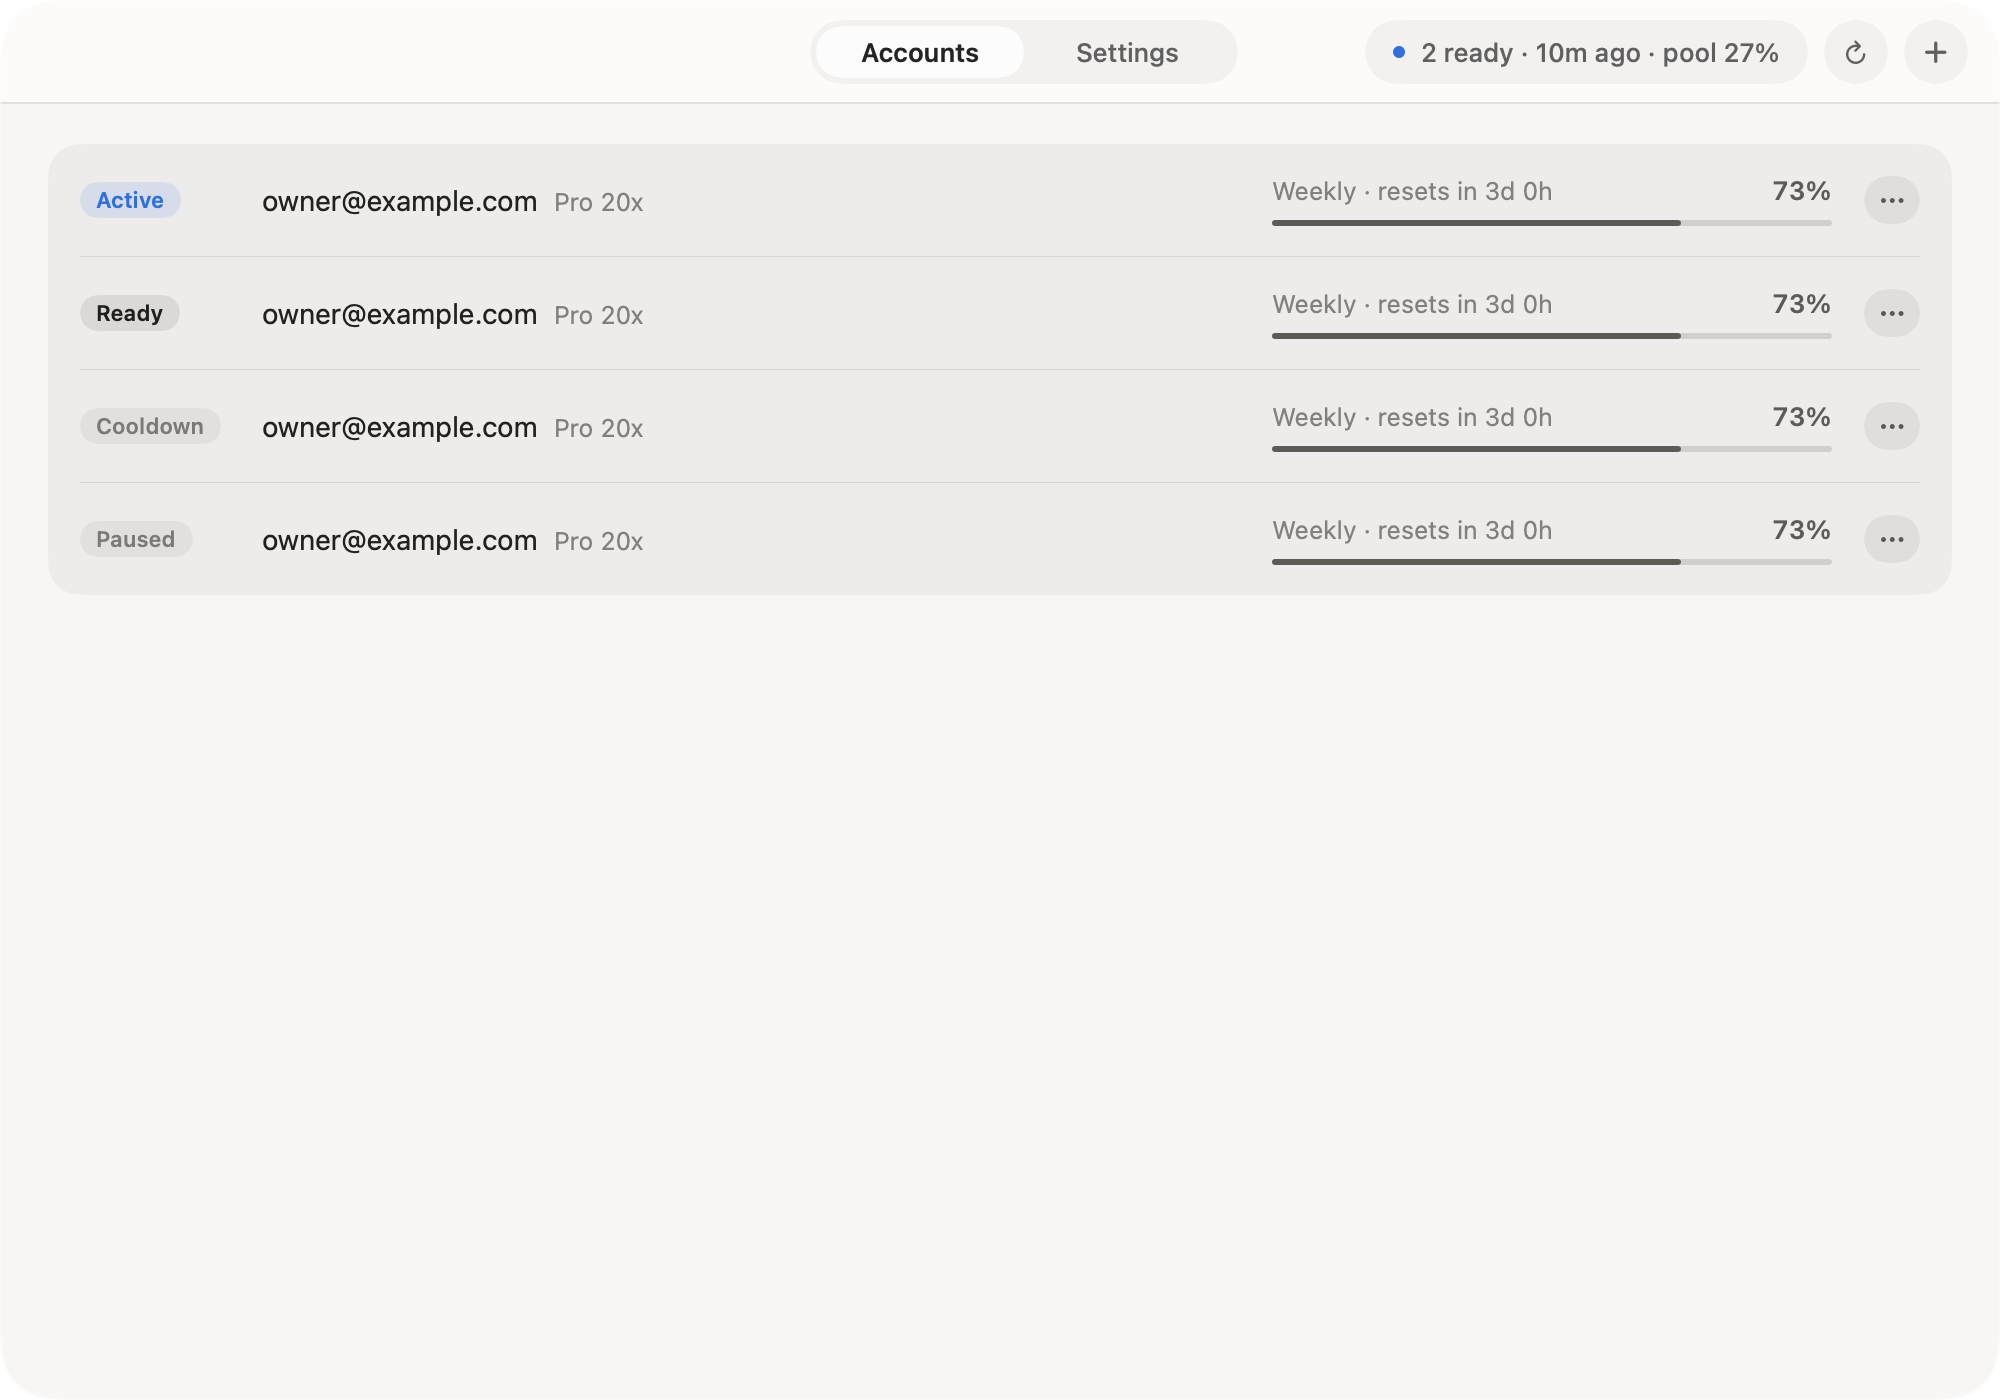
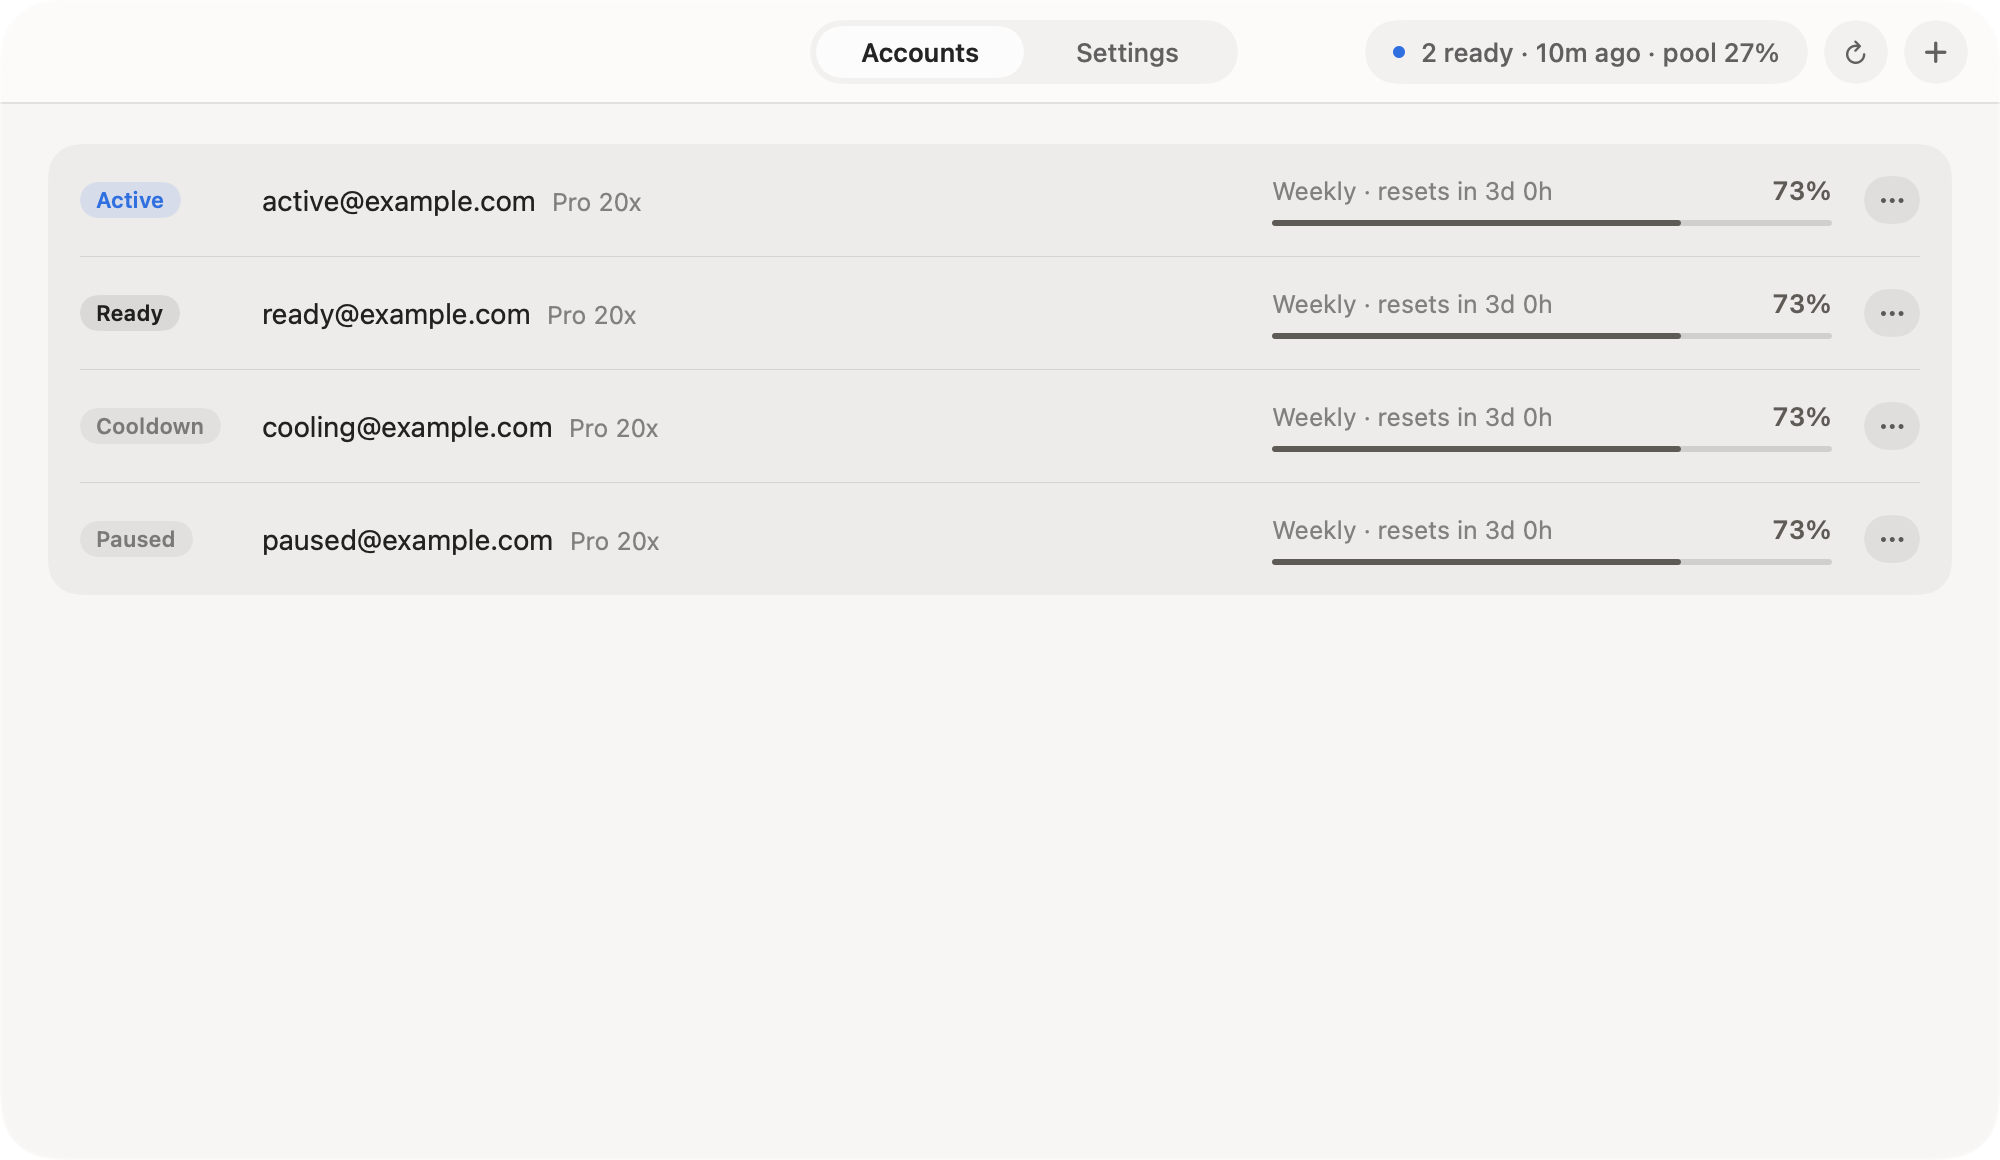
docs: align all READMEs with current failover and update behavior

diff --git a/README.md b/README.md
@@ -8,15 +8,16 @@
 
 **When one Codex account hits its limit, keep going with the next.**
 
-CodexMulti puts your Codex accounts in one macOS menu-bar app. See what each account has left,
+CodexMulti puts your Codex accounts in one macOS menu-bar app. Track each account’s usage and reset times,
 choose their order, and let automatic failover handle confirmed usage-limit errors.
 
 [Download](https://github.com/moonsunkim/codexmulti/releases/latest) · [Changelog](CHANGELOG.md) · [Security](SECURITY.md) · [Contributing](CONTRIBUTING.md)
 
+[![Latest release](https://img.shields.io/github/v/release/moonsunkim/codexmulti)](https://github.com/moonsunkim/codexmulti/releases/latest)
 [![CI](https://github.com/moonsunkim/codexmulti/actions/workflows/ci.yml/badge.svg)](https://github.com/moonsunkim/codexmulti/actions/workflows/ci.yml)
 
 
-- **See your whole pool.** Remaining usage, reset times and account availability are together in one window. The menu bar keeps the pool total close by; **Accounts…** opens the full list in one click.
+- **See your whole pool.** Account usage, reset times and failover states are together in one window. The menu bar keeps the pool summary close by; **Accounts…** opens the full list in one click.
 - **Set the order once.** Drag accounts into your preferred order. When an eligible request hits a confirmed usage limit, the proxy tries the next available account.
 - **Turn on one switch.** Failover setup includes the local proxy and its Node runtime. Added or reconnected accounts are picked up automatically while the app is open.
 - **Keep credentials local.** Each account has its own Codex directory and Keychain backup. There is no CodexMulti account to create or hosted service to connect to.
@@ -50,7 +51,7 @@ See [when account switching happens](#when-will-it-switch-accounts) for the exac
 
 ## Install
 
-You need **an Apple Silicon Mac running macOS 26 or later**, Codex CLI with ChatGPT sign-in,
+You need **an Apple Silicon Mac running macOS 26 or later**, **Codex CLI 0.146.0 or later** with ChatGPT sign-in,
 and at least two accounts for failover to be useful.
 
 ```sh
@@ -82,6 +83,8 @@ Move the verified `CodexMulti.app` into `/Applications` and open it.
 
 </details>
 
+For an existing installation, use **Settings → Software update → Check for updates** for normal upgrades. If **Set up safe updates** appears, close Codex clients and complete that one-time setup first. Checks and installation are started by you; see [in-app updates](#in-app-updates).
+
 ## Two steps to get going
 
 1. **Add your accounts.** Click **+**, give the account a name, and complete the official browser sign-in. Repeat for the accounts you want in the pool.
@@ -100,16 +103,20 @@ In an account's **…** menu, **Use in failover…** selects that account for ne
 **Pause in failover** excludes it from receiving new requests; **Resume in failover** includes it again.
 Requests already in flight continue on their current account.
 
+Account rows show **used** capacity for the displayed period: **100% means that limit is exhausted**. **Pool** shows the average weekly capacity remaining across included accounts with reported weekly usage. Paused and invalid accounts are excluded; cooling accounts still contribute to this average. It is not a combined token allowance or a count of accounts ready to accept a request.
+
+Usage is a saved snapshot. Refresh one account from its **…** menu, or use **Refresh All Accounts**. Scheduled refresh is **Off** by default; Settings offers **15 min, 30 min or 1 hour**. Refresh also updates the local proxy status. **Rename…** changes the name displayed in CodexMulti, not the account’s OpenAI email.
+
 <picture>
   <source media="(prefers-color-scheme: dark)" srcset="assets/screenshots/accounts-dark.png">
   <source media="(prefers-color-scheme: light)" srcset="assets/screenshots/accounts-light.png">
-  <img alt="CodexMulti account pool with remaining usage, reset times and active, ready, cooling and paused states" src="assets/screenshots/accounts-light.png">
+  <img alt="CodexMulti account pool with used percentages, reset times and active, ready, cooling and paused states" src="assets/screenshots/accounts-light.png">
 </picture>
 
 <picture>
   <source media="(prefers-color-scheme: dark)" srcset="assets/screenshots/settings-dark.png">
   <source media="(prefers-color-scheme: light)" srcset="assets/screenshots/settings-light.png">
-  <img alt="Current settings with one Failover switch and a wide language selector aligned to the right" src="assets/screenshots/settings-light.png">
+  <img alt="Refresh, appearance, language, usage-window and Failover settings in CodexMulti" src="assets/screenshots/settings-light.png">
 </picture>
 
 Choose your usage refresh interval, preferred usage window and theme. The language menu supports
@@ -123,6 +130,8 @@ See [i18n maintenance](docs/i18n.md) to add or update translations.
 
 Expand an account to see its usage windows, authentication and failover status, last refresh,
 and reported reset credits.
+
+When the provider reports an available credit, the account menu can offer **Use one reset…**. A fresh preflight and two confirmations are required before spending one existing credit. **Clear cooldown…** is a separate action for a limit already reset elsewhere; it does not redeem a credit.
 
 <picture>
   <source media="(prefers-color-scheme: dark)" srcset="assets/screenshots/accounts-expanded-dark.png">
@@ -144,6 +153,7 @@ account is tried at most once for the request.
 Manual switching applies to the next request even when Codex reuses an existing WebSocket.
 Responses already running finish on their original account. Conversation context is carried
 forward when an account changes; independent streams can continue without being interrupted.
+If the complete continuation is no longer cached, the client must resend full context; the proxy does not silently omit conversation history.
 
 Network failures, `5xx`, interrupted streams, plan mismatches, `usage_not_included` and unrecognized
 `429` responses stop the request. A response that has already started is not replayed on another account.
@@ -189,6 +199,7 @@ Tests:
 (cd core && zig build test && zig build test-bridge)
 (cd app && CODEXMULTI_TEST_HEADLESS=1 swift test)   # never plain `swift test`: it opens windows
 (cd proxy && npm test)
+(cd updater && CODEXMULTI_TEST_HEADLESS=1 swift test)
 ```
 
 CI checks the Zig core, Node proxy, SwiftUI shell and distribution scripts on macOS.
@@ -228,7 +239,7 @@ A live but unreachable process requires recovery rather than being forcibly stop
 app** opens the retained signed app when app installation needs manual recovery.
 
 Update checking is enabled in release builds with an HTTPS feed and pinned Sparkle public key.
-Local unsigned builds show that distribution configuration is unavailable. See the
+Local builds without an update feed show that distribution configuration is unavailable. See the
 [update design and implementation constraints](docs/update-design.md) and
 [release configuration](docs/updater-release.md).
 
@@ -265,6 +276,8 @@ If the app or helper cannot run, open `~/.codex/config.toml` in a text editor. R
 chatgpt_base_url = "http://127.0.0.1:8787/backend-api/"
 openai_base_url = "http://127.0.0.1:8787/backend-api/codex"
 ```
+
+The following service-removal check is for legacy agents that launch Node directly. Managed-runtime installations use `codexmulti-runtime-launcher`; use the native helper or the recovery controls described above for those installations. Do not force-stop a managed runtime with active requests.
 
 Then inspect `launchctl print "gui/$(id -u)/dev.codexmulti.app.proxy"`. Only if its program arguments point to your CodexMulti app's `Contents/Helpers/node`, `Contents/Resources/proxy/src/server.mjs`, `--config`, and your proxy config, stop it with `launchctl bootout "gui/$(id -u)/dev.codexmulti.app.proxy"` and remove `~/Library/LaunchAgents/dev.codexmulti.app.proxy.plist`. Restart Codex clients so they reread the direct-connection configuration. Do not replace the whole shared config with an old backup.
 

diff --git a/proxy/README.md b/proxy/README.md
@@ -1,6 +1,6 @@
 # codexmulti-proxy
 
-`codexmulti-proxy` is a local failover proxy that sits in front of multiple Codex ChatGPT OAuth accounts. It is single-user and loopback-only. The proxy keeps an ordered pool of account-specific `auth.json` files, replaces only the two identity headers, and moves to the next account only after a pre-stream `429` whose JSON error type is `usage_limit_reached`.
+`codexmulti-proxy` is a local failover proxy that sits in front of multiple Codex ChatGPT OAuth accounts. It runs as a per-user service and listens only on loopback. The proxy keeps an ordered pool of account-specific `auth.json` files, substitutes the account's identity headers, and switches only after a confirmed `usage_limit_reached`: an HTTP `429` before streaming, a rejected WebSocket handshake, or a Responses WebSocket error before any response event reaches the client.
 
 WebSocket Upgrades to upstream routes use the active account's identity headers. Responses WebSockets select an account for each `response.create`, honor manual switches on existing client connections, and retry a definitive usage-limit error before any response event is delivered. Other WebSocket routes remain opaque byte tunnels. The `/_proxy` control API continues to reject Upgrades with `426 Upgrade Required`. The local control API is version 2. This project is not a general forward proxy, TLS MITM, account creator, or `codex cloud` proxy.
 
@@ -216,4 +216,8 @@ Do not delete, copy, or otherwise modify CodexMulti account directories during r
 
 ## Version boundary
 
-The transport behavior is guarded by local raw WebSocket pass-through tests plus an upstream-426 → POST/SSE fallback smoke against the installed compatible Codex CLI. If the CLI is unavailable, that smoke is skipped with its reason. Version 1 does not implement round-robin or WebSocket frame termination.
+Transport coverage includes HTTP/SSE failover, Responses WebSocket frame handling, continued
+conversations, manual switching, independent streams and opaque pass-through for other WebSocket
+routes. An upstream-426 → POST/SSE fallback smoke runs against a compatible installed Codex CLI;
+if the CLI is unavailable, that smoke is skipped with its reason. Selection uses the ordered sticky
+cursor, not round-robin. See [Failover behavior](#failover-behavior) for retry and context-cache limits.

diff --git a/app/README.md b/app/README.md
@@ -1,10 +1,28 @@
 # app — the SwiftUI shell
 
-The shipping macOS app: a menu-bar item plus one window, drawn entirely from the projection the Zig
-core in [`../core`](../core) hands over the `cm.bridge/1` C ABI. The shell owns windows, menus,
-sheets, accessibility and macOS lifecycle. It owns no product state: every number and sentence it
-draws comes from the core, apart from the dialog copy in `Sources/CodexMulti/Accounts/Copy.swift`.
+The shipping macOS app: a menu-bar item plus one window. Account and usage views use the projection
+the Zig core in [`../core`](../core) hands over the `cm.bridge/1` C ABI. The shell owns windows, menus,
+sheets, accessibility and macOS lifecycle. The Zig core owns account and usage state and the shared
+translation catalog, including menu and dialog copy. The Swift shell also coordinates native app
+updates through `Sources/CodexMulti/App/UpdateController.swift` and the shared [`UpdaterKit`](../updater).
 
 Tests run headless — `CODEXMULTI_TEST_HEADLESS=1 swift test`. Plain `swift test` opens windows.
+
+## README screenshots
+
+Run `./app/scripts/screenshots.sh` from the repository root after building. It renders the account
+list, account details and preference controls off screen using synthetic fixtures. Account-row
+percentages are used capacity; the menu's pool percentage is an average of weekly remaining capacity.
+
+To capture a verified release bundle instead of the staging build:
+
+```sh
+CODEXMULTI_SCREENSHOT_BUNDLE="/path/to/CodexMulti.app" ./app/scripts/screenshots.sh
+```
+
+The executable stays inside its bundle so signed releases retain their signing context. Capture mode
+requires a fixture, skips live services and the updater, and does not create a status item or activate
+a window. The preference screenshot shows the controls above About; update behavior is documented
+in the repository README. The menu images are native menu previews with synthetic accounts.
 
 Start at the [repository README](../README.md).

diff --git a/core/README.md b/core/README.md
@@ -31,19 +31,19 @@ a coordinated `cm.bridge/1` schema change is intended.
 
 ## Documentation
 
-- [Architecture]the design notes: surfaces, service boundaries,
-  providers, storage, concurrency, reset safety, and passive I/O.
-- [Naming and continuity]the design notes: names that are presentation-only and
-  identifiers that must remain byte-for-byte stable.
-- [Operations]the design notes: safe local build and fixture procedures.
-- [Testing]the design notes: the SDK-free aggregate and bridge gate topology.
+- [Repository overview](../README.md): product behavior, setup, build and tests.
+- [UI translations](../docs/i18n.md): shared catalogs and fixture regeneration.
+- [Update design](../docs/update-design.md): runtime ownership and recovery constraints.
+- [Security](../SECURITY.md): local trust and credential handling.
 
 ## Safety contract
 
-- Provider and login I/O starts only after an explicit user command.
-- Projection and pump operations do not originate provider work.
-- Proxy status/switch/pause/reload/sync occur only after their explicit UI
-  actions; current-run v2 mappings own Codex switching without local fallback.
+- Login and reset redemption require explicit user actions. Usage refresh runs on request
+  or at the configured auto-refresh interval; the default interval is Off.
+- Projection is read-only. The service pump advances authorized work, scheduled usage refresh
+  and enabled Failover recovery/configuration reconciliation.
+- Proxy controls follow UI actions and enabled Failover maintenance. There is no independent
+  periodic proxy-status poll; current-run v2 mappings own switching without local auth fallback.
 - Concurrency remains globally two operations and one per account; workers are
   canceled-and-joined before borrowed state is released.
 - Durable app documents contain no credential material.
